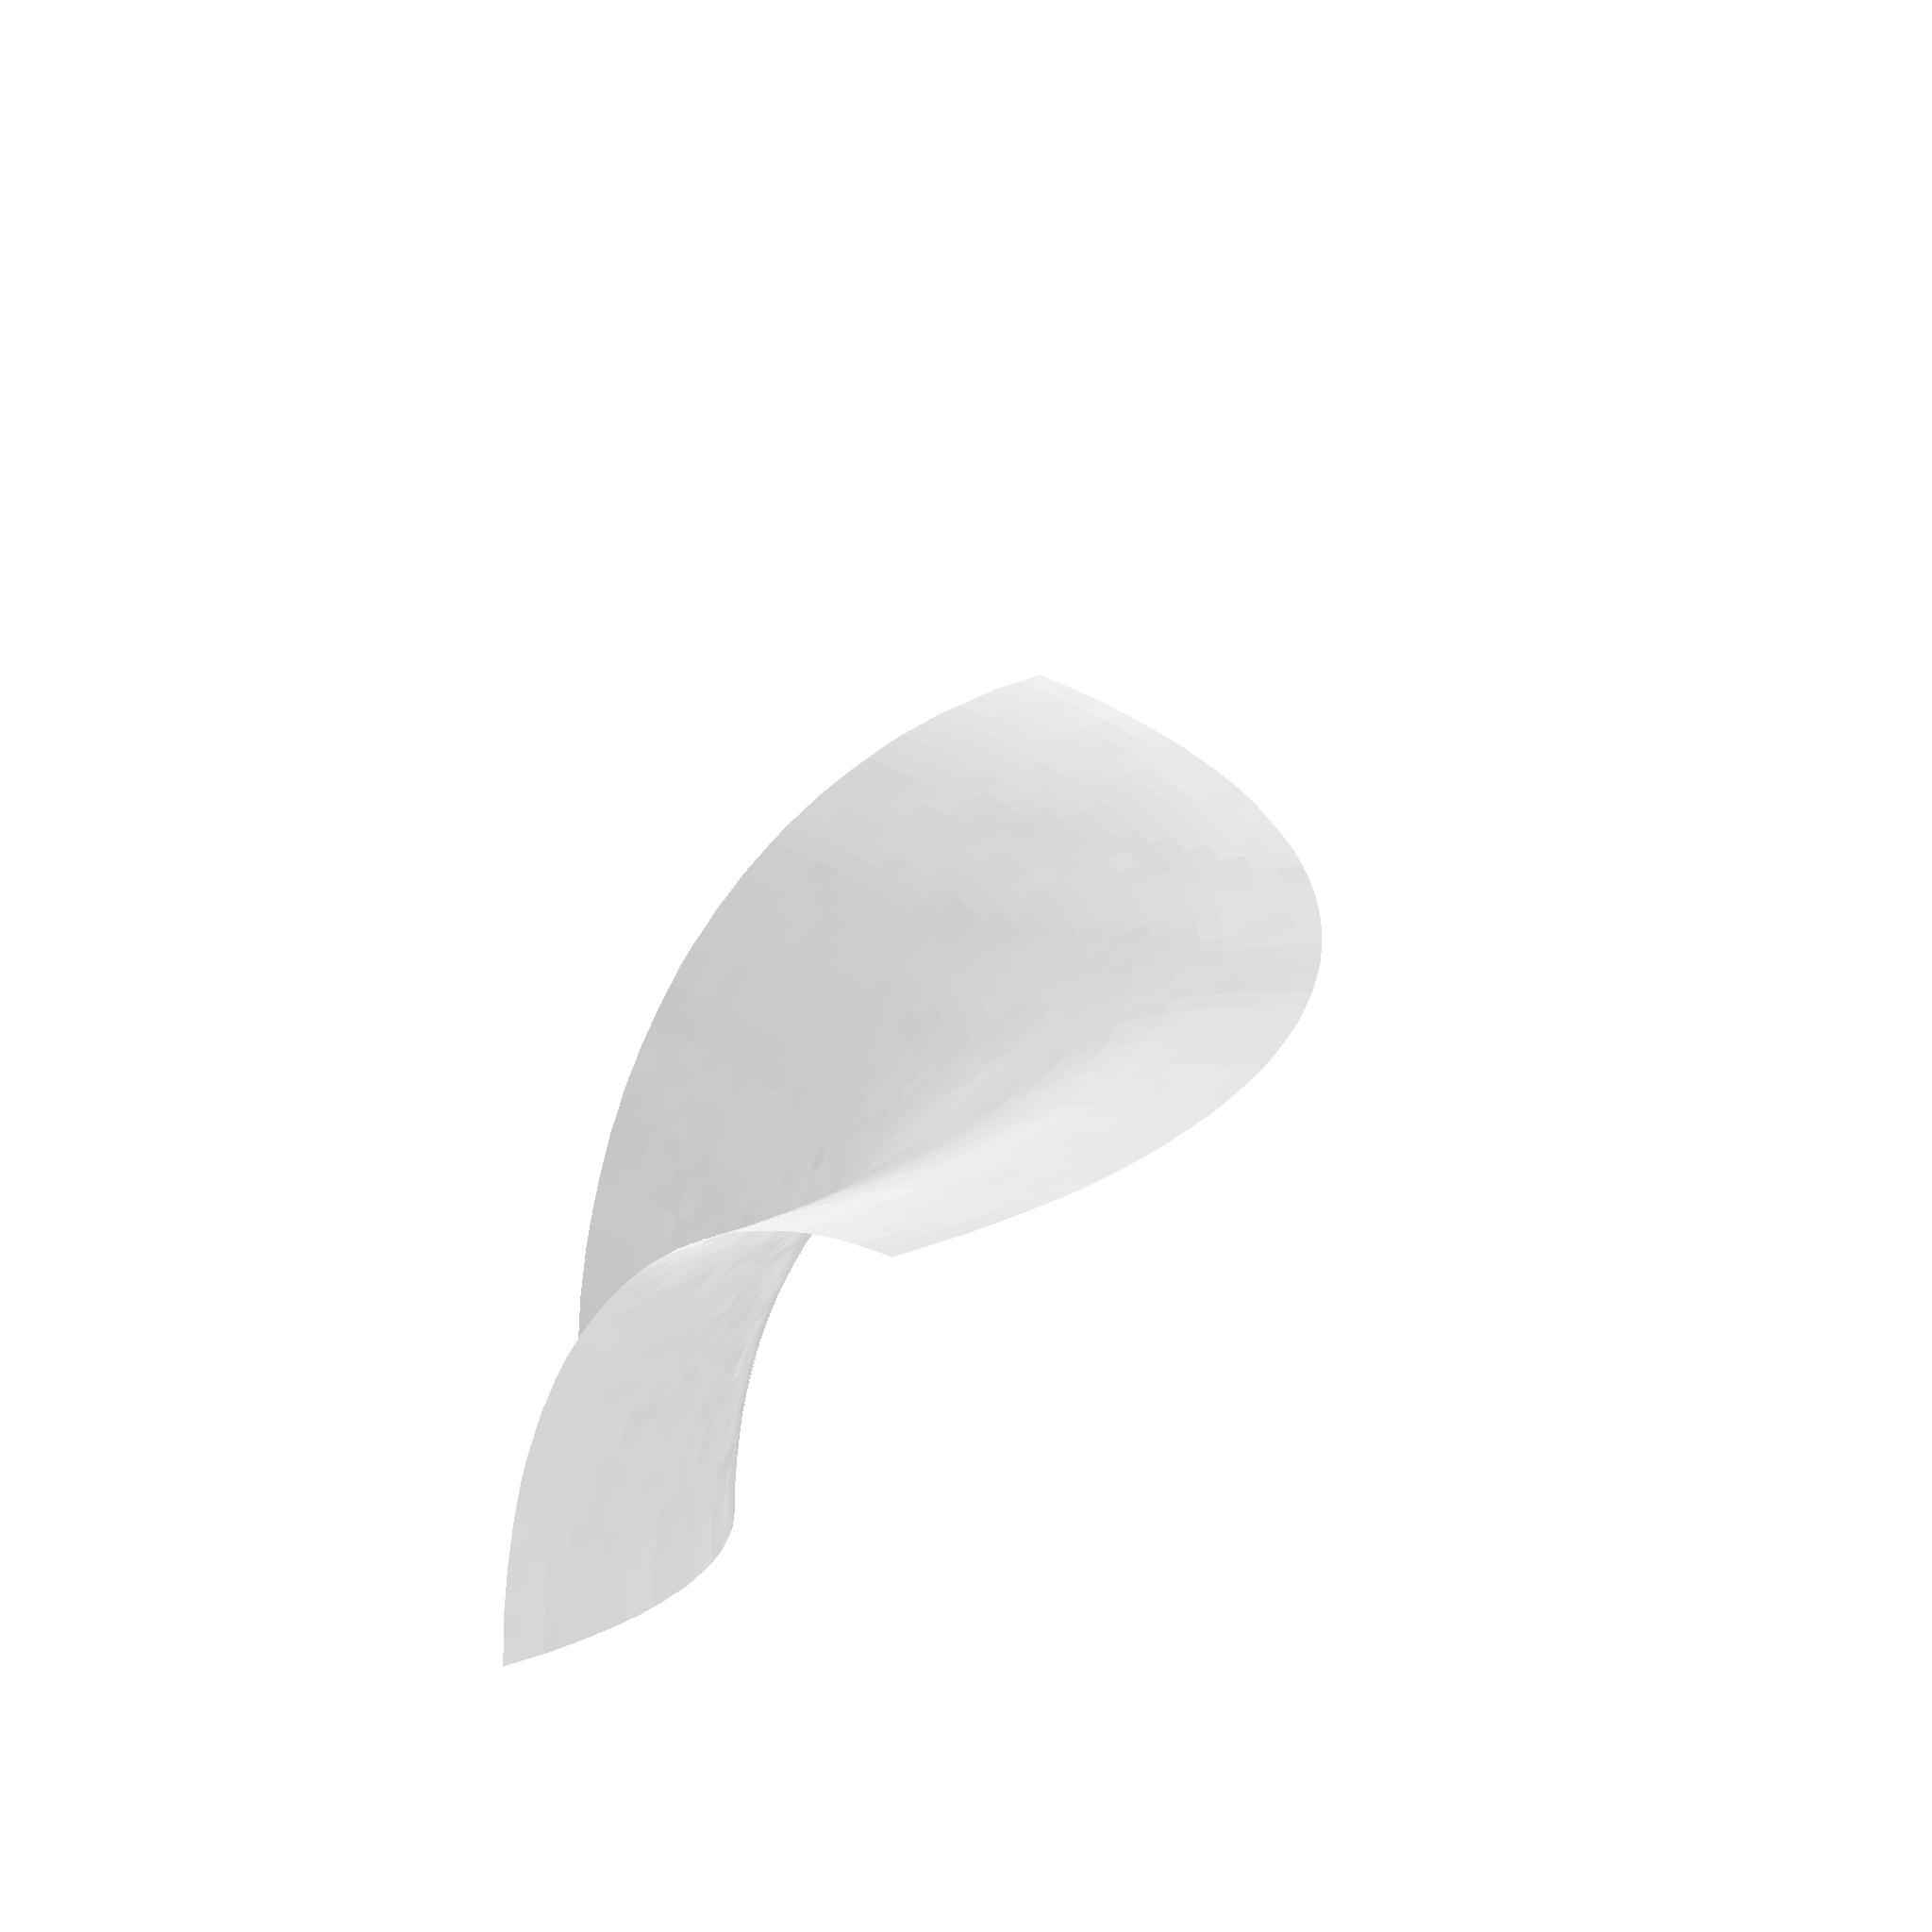
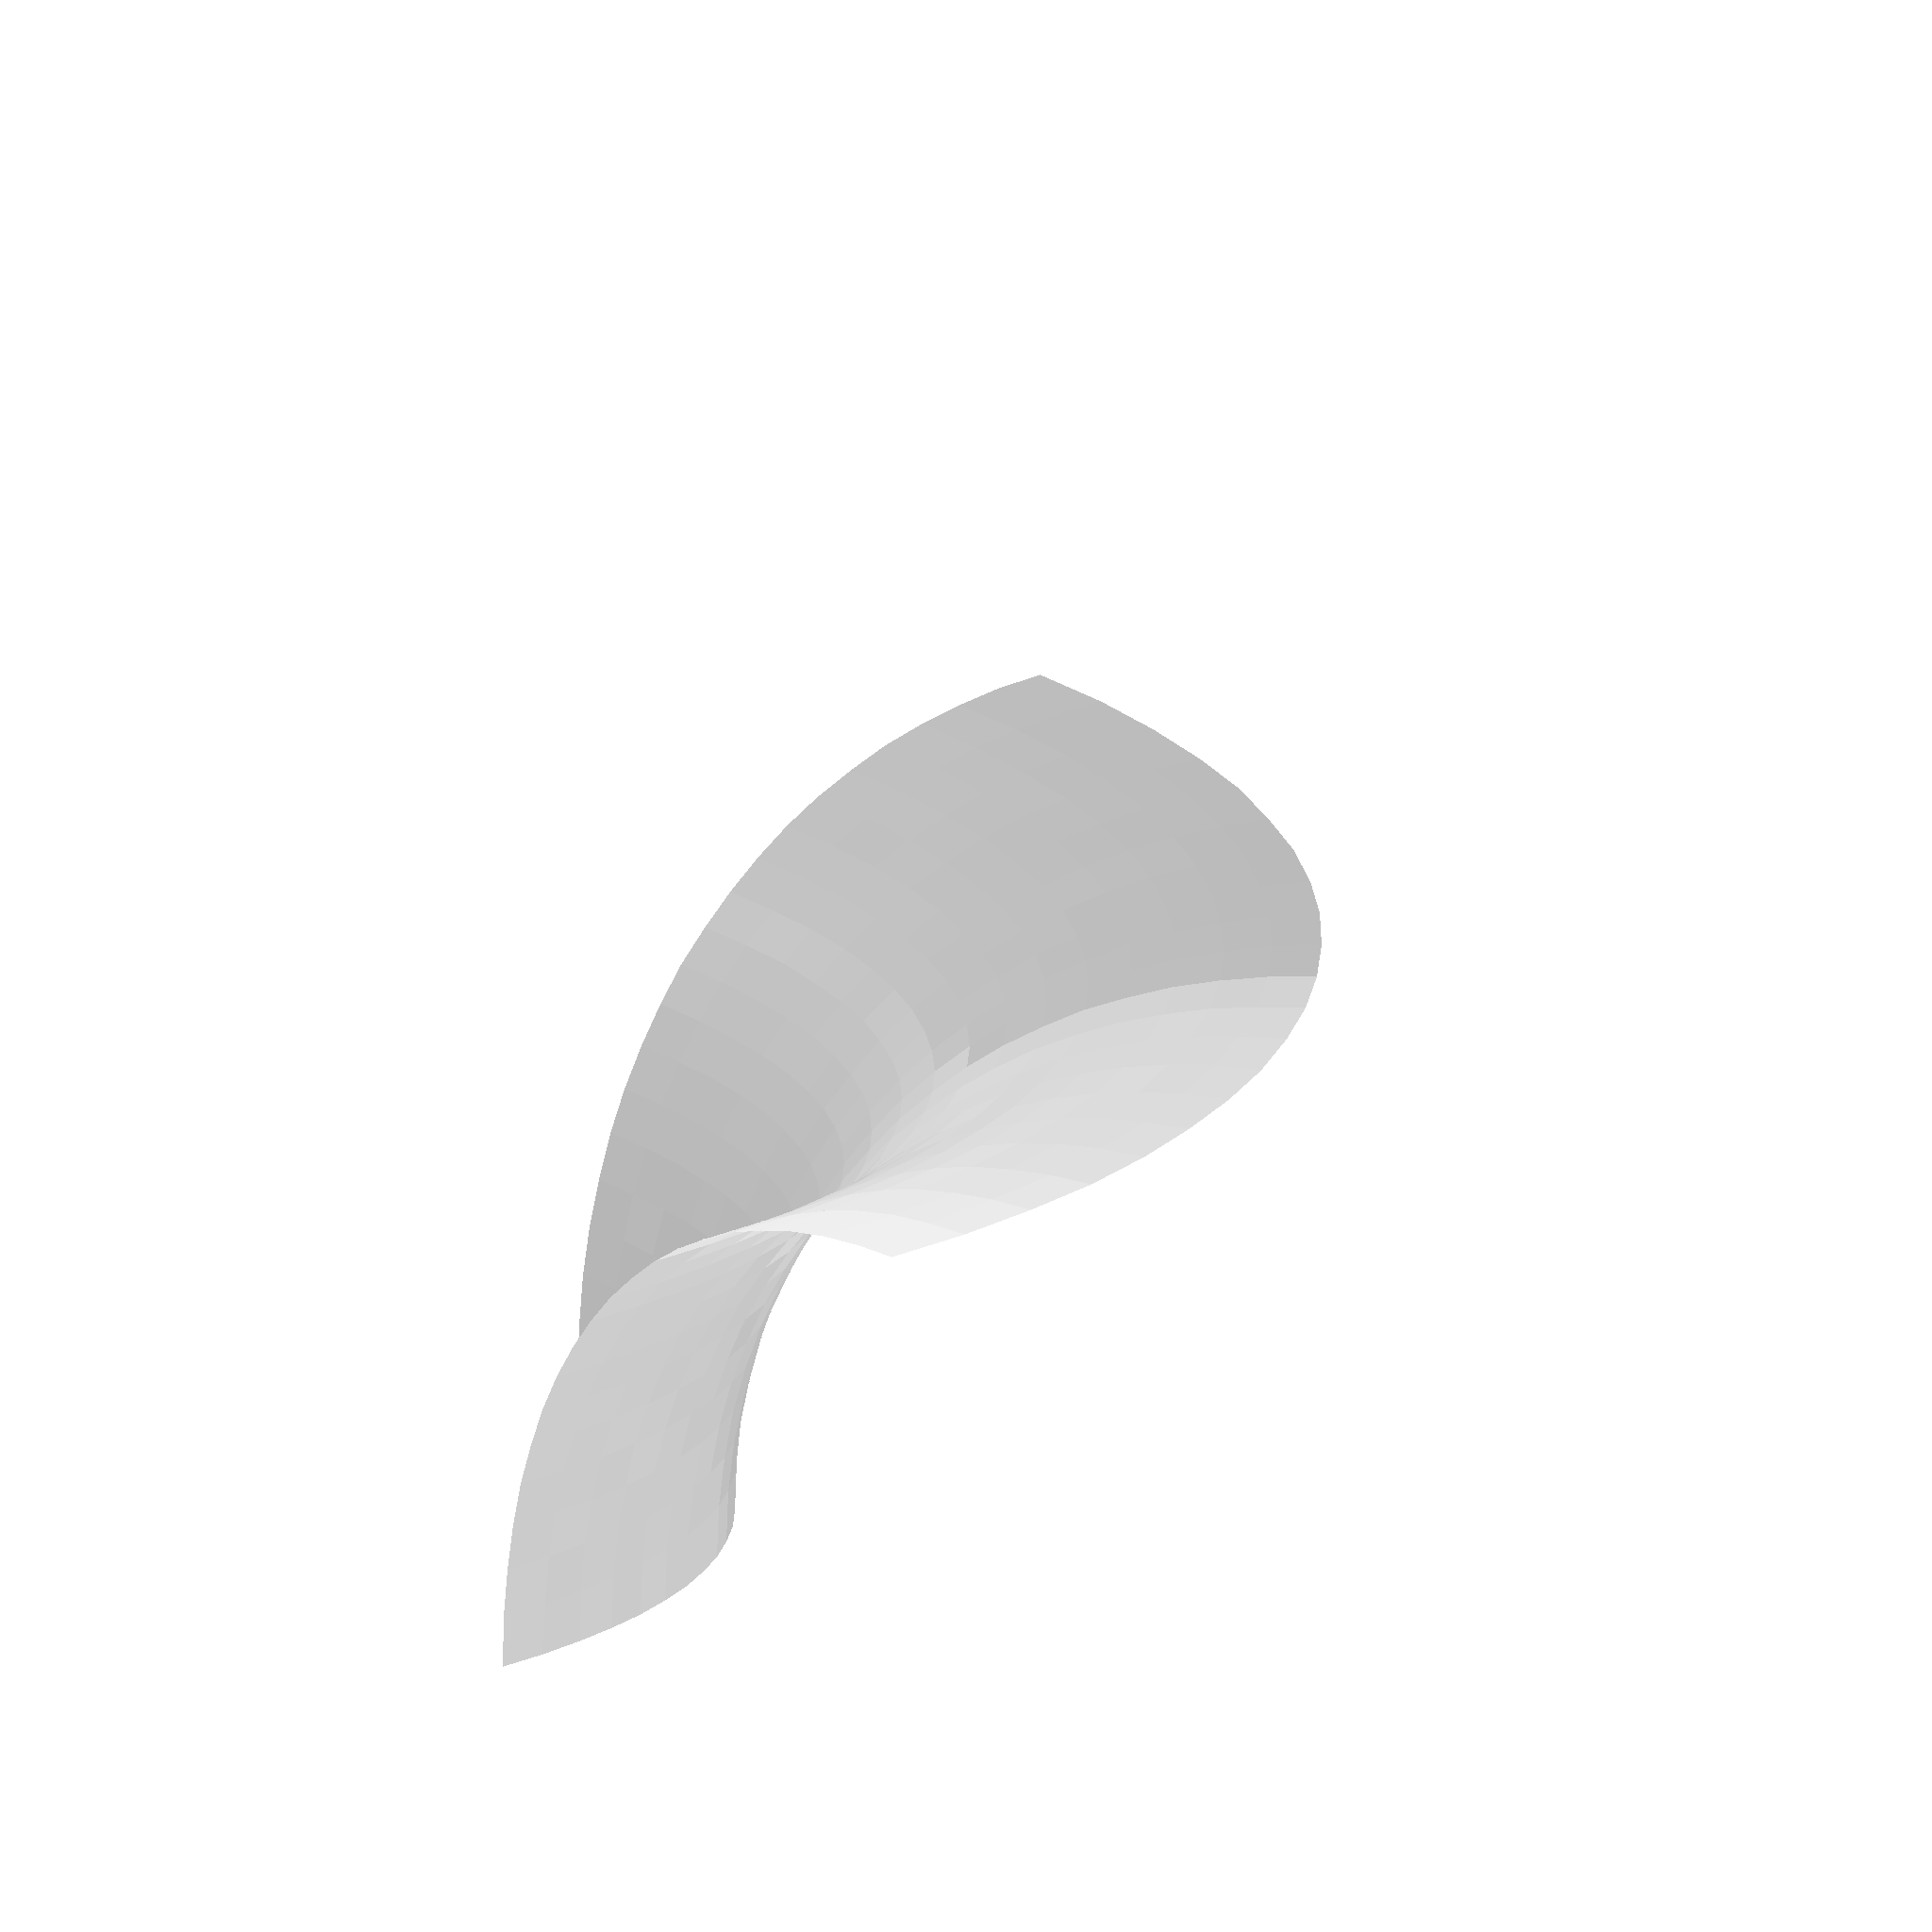
update render examples

Changed region(s): [[0.4375, 0.3438, 0.6875, 0.5312]]

diff --git a/blog/rendering-a-bezier-surface.html b/blog/rendering-a-bezier-surface.html
@@ -225,12 +225,17 @@
     </span><span class="identifier">z</span><span class="whitespace"> </span><span class="operator">+</span><span class="operator">=</span><span class="whitespace"> </span><span class="identifier">sumz</span><span class="whitespace">
   </span><span class="reserved">return</span><span class="whitespace"> </span><span class="identifier">sumz</span><span class="whitespace"> </span><span class="operator">/</span><span class="whitespace"> </span><span class="identifier">len</span><span class="paran_begin">(</span><span class="identifier">points</span><span class="paran_end">)</span><span class="whitespace">
 
+</span><span class="reserved">def</span><span class="whitespace"> </span><span class="identifier">cube_sort</span><span class="paran_begin">(</span><span class="identifier">cube</span><span class="paran_end">)</span><span class="colon">:</span><span class="whitespace">
+  </span><span class="identifier">x</span><span class="comma">,</span><span class="whitespace"> </span><span class="identifier">y</span><span class="comma">,</span><span class="whitespace"> </span><span class="identifier">z</span><span class="comma">,</span><span class="whitespace"> </span><span class="identifier">r</span><span class="comma">,</span><span class="whitespace"> </span><span class="identifier">g</span><span class="comma">,</span><span class="whitespace"> </span><span class="identifier">b</span><span class="whitespace"> </span><span class="operator">=</span><span class="whitespace"> </span><span class="identifier">cube</span><span class="whitespace">
+  </span><span class="reserved">return</span><span class="whitespace"> </span><span class="identifier">y</span><span class="comma">,</span><span class="whitespace"> </span><span class="identifier">z</span><span class="comma">,</span><span class="whitespace"> </span><span class="identifier">x</span><span class="whitespace">
+
 </span><span class="reserved">def</span><span class="whitespace"> </span><span class="identifier">render</span><span class="paran_begin">(</span><span class="identifier">name</span><span class="comma">,</span><span class="whitespace"> </span><span class="identifier">cubes</span><span class="comma">,</span><span class="whitespace"> </span><span class="identifier">width</span><span class="comma">,</span><span class="whitespace"> </span><span class="identifier">height</span><span class="comma">,</span><span class="whitespace"> </span><span class="identifier">unit_scale</span><span class="comma">,</span><span class="whitespace"> </span><span class="identifier">rotate_horizontal</span><span class="comma">,</span><span class="whitespace"> </span><span class="identifier">rotate_vertical</span><span class="paran_end">)</span><span class="colon">:</span><span class="whitespace">
   </span><span class="identifier">width</span><span class="whitespace"> </span><span class="operator">*</span><span class="operator">=</span><span class="whitespace"> </span><span class="identifier">unit_scale</span><span class="whitespace">
   </span><span class="identifier">height</span><span class="whitespace"> </span><span class="operator">*</span><span class="operator">=</span><span class="whitespace"> </span><span class="identifier">unit_scale</span><span class="whitespace">
   </span><span class="identifier">image</span><span class="whitespace"> </span><span class="operator">=</span><span class="whitespace"> </span><span class="identifier">Image</span><span class="dot">.</span><span class="identifier">new</span><span class="paran_begin">(</span><span class="string">"RGBA"</span><span class="comma">,</span><span class="whitespace"> </span><span class="paran_begin">(</span><span class="identifier">width</span><span class="comma">,</span><span class="whitespace"> </span><span class="identifier">height</span><span class="paran_end">)</span><span class="comma">,</span><span class="whitespace"> </span><span class="paran_begin">(</span><span class="number">255</span><span class="comma">,</span><span class="whitespace"> </span><span class="number">255</span><span class="comma">,</span><span class="whitespace"> </span><span class="number">255</span><span class="comma">,</span><span class="whitespace"> </span><span class="number">0</span><span class="paran_end">)</span><span class="paran_end">)</span><span class="whitespace">
   </span><span class="identifier">draw</span><span class="whitespace"> </span><span class="operator">=</span><span class="whitespace"> </span><span class="identifier">ImageDraw</span><span class="dot">.</span><span class="identifier">Draw</span><span class="paran_begin">(</span><span class="identifier">image</span><span class="paran_end">)</span><span class="whitespace">
   </span><span class="identifier">faces</span><span class="whitespace"> </span><span class="operator">=</span><span class="whitespace"> </span><span class="bracked_begin">[</span><span class="bracket_end">]</span><span class="whitespace">
+  </span><span class="identifier">cubes</span><span class="dot">.</span><span class="identifier">sort</span><span class="paran_begin">(</span><span class="identifier">key</span><span class="operator">=</span><span class="identifier">cube_sort</span><span class="paran_end">)</span><span class="whitespace">
   </span><span class="reserved">for</span><span class="whitespace"> </span><span class="identifier">x</span><span class="comma">,</span><span class="whitespace"> </span><span class="identifier">y</span><span class="comma">,</span><span class="whitespace"> </span><span class="identifier">z</span><span class="comma">,</span><span class="whitespace"> </span><span class="identifier">r</span><span class="comma">,</span><span class="whitespace"> </span><span class="identifier">g</span><span class="comma">,</span><span class="whitespace"> </span><span class="identifier">b</span><span class="whitespace"> </span><span class="reserved">in</span><span class="whitespace"> </span><span class="identifier">cubes</span><span class="colon">:</span><span class="whitespace">
     </span><span class="identifier">cube</span><span class="whitespace"> </span><span class="operator">=</span><span class="whitespace"> </span><span class="identifier">create_cube</span><span class="paran_begin">(</span><span class="identifier">x</span><span class="comma">,</span><span class="whitespace"> </span><span class="identifier">y</span><span class="comma">,</span><span class="whitespace"> </span><span class="identifier">z</span><span class="comma">,</span><span class="whitespace"> </span><span class="identifier">rotate_horizontal</span><span class="comma">,</span><span class="whitespace"> </span><span class="identifier">rotate_vertical</span><span class="paran_end">)</span><span class="whitespace">
     </span><span class="reserved">for</span><span class="whitespace"> </span><span class="identifier">darken_percent</span><span class="comma">,</span><span class="whitespace"> </span><span class="operator">*</span><span class="identifier">diamond</span><span class="whitespace"> </span><span class="reserved">in</span><span class="whitespace"> </span><span class="identifier">cube</span><span class="colon">:</span><span class="whitespace">
@@ -245,7 +250,7 @@
         </span><span class="paran_end">)</span><span class="whitespace">
         </span><span class="identifier">points</span><span class="dot">.</span><span class="identifier">append</span><span class="paran_begin">(</span><span class="bracked_begin">[</span><span class="identifier">xn</span><span class="comma">,</span><span class="whitespace"> </span><span class="identifier">yn</span><span class="comma">,</span><span class="whitespace"> </span><span class="identifier">zn</span><span class="bracket_end">]</span><span class="paran_end">)</span><span class="whitespace">
       </span><span class="identifier">faces</span><span class="dot">.</span><span class="identifier">append</span><span class="paran_begin">(</span><span class="bracked_begin">[</span><span class="identifier">points</span><span class="comma">,</span><span class="whitespace"> </span><span class="identifier">darken</span><span class="paran_begin">(</span><span class="identifier">r</span><span class="comma">,</span><span class="whitespace"> </span><span class="identifier">g</span><span class="comma">,</span><span class="whitespace"> </span><span class="identifier">b</span><span class="comma">,</span><span class="whitespace"> </span><span class="identifier">darken_percent</span><span class="paran_end">)</span><span class="bracket_end">]</span><span class="paran_end">)</span><span class="whitespace">
-  </span><span class="identifier">faces</span><span class="dot">.</span><span class="identifier">sort</span><span class="paran_begin">(</span><span class="identifier">key</span><span class="operator">=</span><span class="identifier">centerz_sort</span><span class="paran_end">)</span><span class="whitespace">
+  </span><span class="comment"># faces.sort(key=centerz_sort)</span><span class="whitespace">
   </span><span class="reserved">for</span><span class="whitespace"> </span><span class="identifier">abcd</span><span class="comma">,</span><span class="whitespace"> </span><span class="identifier">rgb</span><span class="whitespace"> </span><span class="reserved">in</span><span class="whitespace"> </span><span class="identifier">faces</span><span class="colon">:</span><span class="whitespace">
     </span><span class="identifier">points</span><span class="whitespace"> </span><span class="operator">=</span><span class="whitespace"> </span><span class="bracked_begin">[</span><span class="bracket_end">]</span><span class="whitespace">
     </span><span class="reserved">for</span><span class="whitespace"> </span><span class="identifier">xx</span><span class="comma">,</span><span class="whitespace"> </span><span class="identifier">yy</span><span class="comma">,</span><span class="whitespace"> </span><span class="identifier">zz</span><span class="whitespace"> </span><span class="reserved">in</span><span class="whitespace"> </span><span class="identifier">abcd</span><span class="colon">:</span><span class="whitespace">
@@ -396,4 +401,4 @@
 </span><span class="comment"># draw_rendered_faces("render-6-1", faces_rendered, ROTATE_H, ROTATE_V)</span><span class="whitespace">
 </span><span class="comment"># draw_rendered_faces("render-6-2", faces_rendered, ROTATE_H + 10, ROTATE_V)</span><span class="whitespace">
 </span><span class="comment"># draw_rendered_faces("render-6-3", faces_rendered, ROTATE_H + 20, ROTATE_V)</span><span class="whitespace">
-</span></pre><p></p><p>It is possible to see in different angle without a need to re-render them.</p><p> </p><div class="image-block"><img width="512" height="512" alt="/examples/render-6-1.png" src="/examples/render-6-1.png"/></div><p></p><div class="image-block"><img width="512" height="512" alt="/examples/render-6-2.png" src="/examples/render-6-2.png"/></div><p> </p><p>The render part is written in Python language. I edit the surfaces by an application that runs on a browser written with javascript when I am creating something. Here are some examples that I rendered in this way.</p><p> </p><div class="image-block"><img width="512" height="512" alt="/examples/potato.png" src="/examples/potato.png"/></div><p> </p><div class="image-block"><img width="512" height="512" alt="/examples/coffee.png" src="/examples/coffee.png"/></div><p> </p><div class="image-block"><img width="512" height="512" alt="/examples/pizza.png" src="/examples/pizza.png"/></div><p> </p><p>Good luck playing with that.</p><div class="footer"><a href="https://instagram.com/fatiherikli9278">instagram</a> <a href="https://linkedin.com/in/fatih-erikli-2a8315337">linkedin</a> <a href="https://github.com/fatih-erikli-potato">github</a></div></div></body></html>
+</span></pre><p></p><p>It is possible to see in different angle without a need to re-render them.</p><p> </p><div class="image-block"><img width="512" height="512" alt="/examples/render-6-1.png" src="/examples/render-6-1.png"/></div><p></p><div class="image-block"><img width="512" height="512" alt="/examples/render-6-3.png" src="/examples/render-6-3.png"/></div><p> </p><p>The render part is written in Python language. I edit the surfaces by an application that runs on a browser written with javascript when I am creating something. Here are some examples that I rendered in this way.</p><p> </p><div class="image-block"><img width="512" height="512" alt="/examples/potato.png" src="/examples/potato.png"/></div><p> </p><div class="image-block"><img width="512" height="512" alt="/examples/coffee.png" src="/examples/coffee.png"/></div><p> </p><div class="image-block"><img width="512" height="512" alt="/examples/pizza.png" src="/examples/pizza.png"/></div><p> </p><p>Good luck playing with that.</p><div class="footer"><a href="https://instagram.com/fatiherikli9278">instagram</a> <a href="https://linkedin.com/in/fatih-erikli-2a8315337">linkedin</a> <a href="https://github.com/fatih-erikli-potato">github</a></div></div></body></html>

diff --git a/examples/render-6.py b/examples/render-6.py
@@ -15,12 +15,17 @@ def centerz_sort(face):
     z += sumz
   return sumz / len(points)
 
+def cube_sort(cube):
+  x, y, z, r, g, b = cube
+  return y, z, x
+
 def render(name, cubes, width, height, unit_scale, rotate_horizontal, rotate_vertical):
   width *= unit_scale
   height *= unit_scale
   image = Image.new("RGBA", (width, height), (255, 255, 255, 0))
   draw = ImageDraw.Draw(image)
   faces = []
+  cubes.sort(key=cube_sort)
   for x, y, z, r, g, b in cubes:
     cube = create_cube(x, y, z, rotate_horizontal, rotate_vertical)
     for darken_percent, *diamond in cube:
@@ -35,7 +40,7 @@ def render(name, cubes, width, height, unit_scale, rotate_horizontal, rotate_ver
         )
         points.append([xn, yn, zn])
       faces.append([points, darken(r, g, b, darken_percent)])
-  faces.sort(key=centerz_sort)
+  # faces.sort(key=centerz_sort)
   for abcd, rgb in faces:
     points = []
     for xx, yy, zz in abcd: